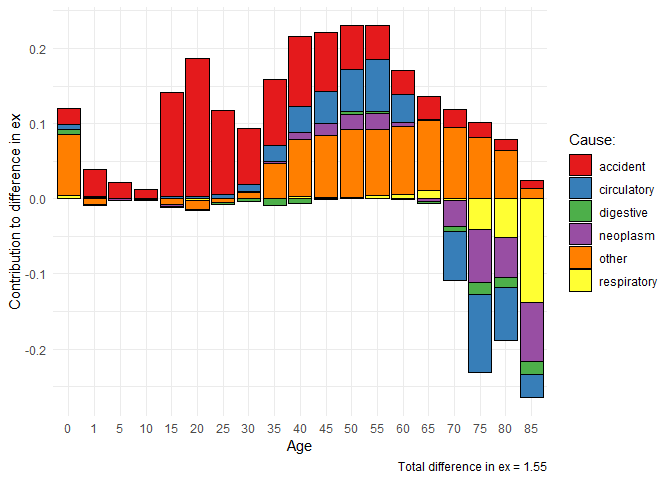
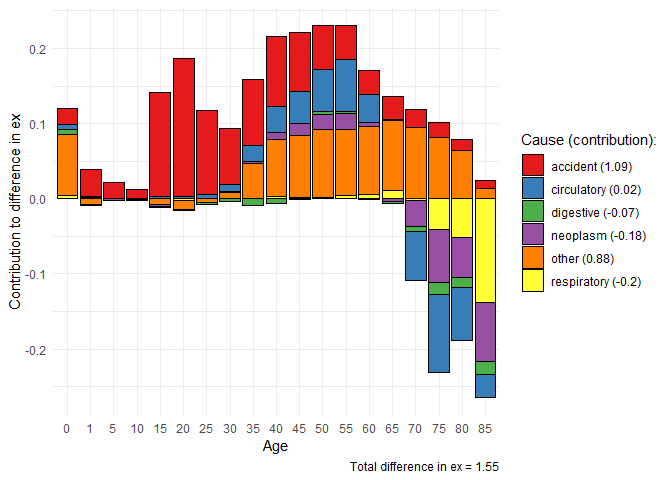
0.0.0.932

Changed region(s): [[0.0938, 0.0312, 0.9688, 0.8438], [0.0938, 0.875, 0.8125, 0.9375], [0.5312, 0.9375, 0.8125, 1.0]]

diff --git a/README.md b/README.md
@@ -176,6 +176,7 @@ presented
 Lets see the data
 
 ``` r
+data("mdecompex")
 head(mdecompex)
 #> # A tibble: 6 × 9
 #>     age neoplasms circulatory respiratory  digestive  accident     other     all
@@ -248,11 +249,15 @@ for(i in 4:ncol(decm)){
   rm(decm_plot_i)
 }
 
+for (i in unique(decm_plot$group)){
+  decm_plot[decm_plot$group==i,]$group <- paste0(i, " (", round(sum(decm_plot[decm_plot$group==i,]$ex12),2), ")")
+}
+
 ggplot(data = decm_plot, aes(x = as.factor(age), y = ex12, fill = group))+
   geom_bar(stat="identity", colour = "black")+
   theme_minimal()+
   scale_fill_brewer(palette="Set1")+
-  labs(x = "Age", y = "Contribution to difference in ex", fill = "Cause:", 
+  labs(x = "Age", y = "Contribution to difference in ex", fill = "Cause (contribution):", 
        caption  = paste0("Total difference in ex = ", sum(decm[,2]))
        )
 ```
